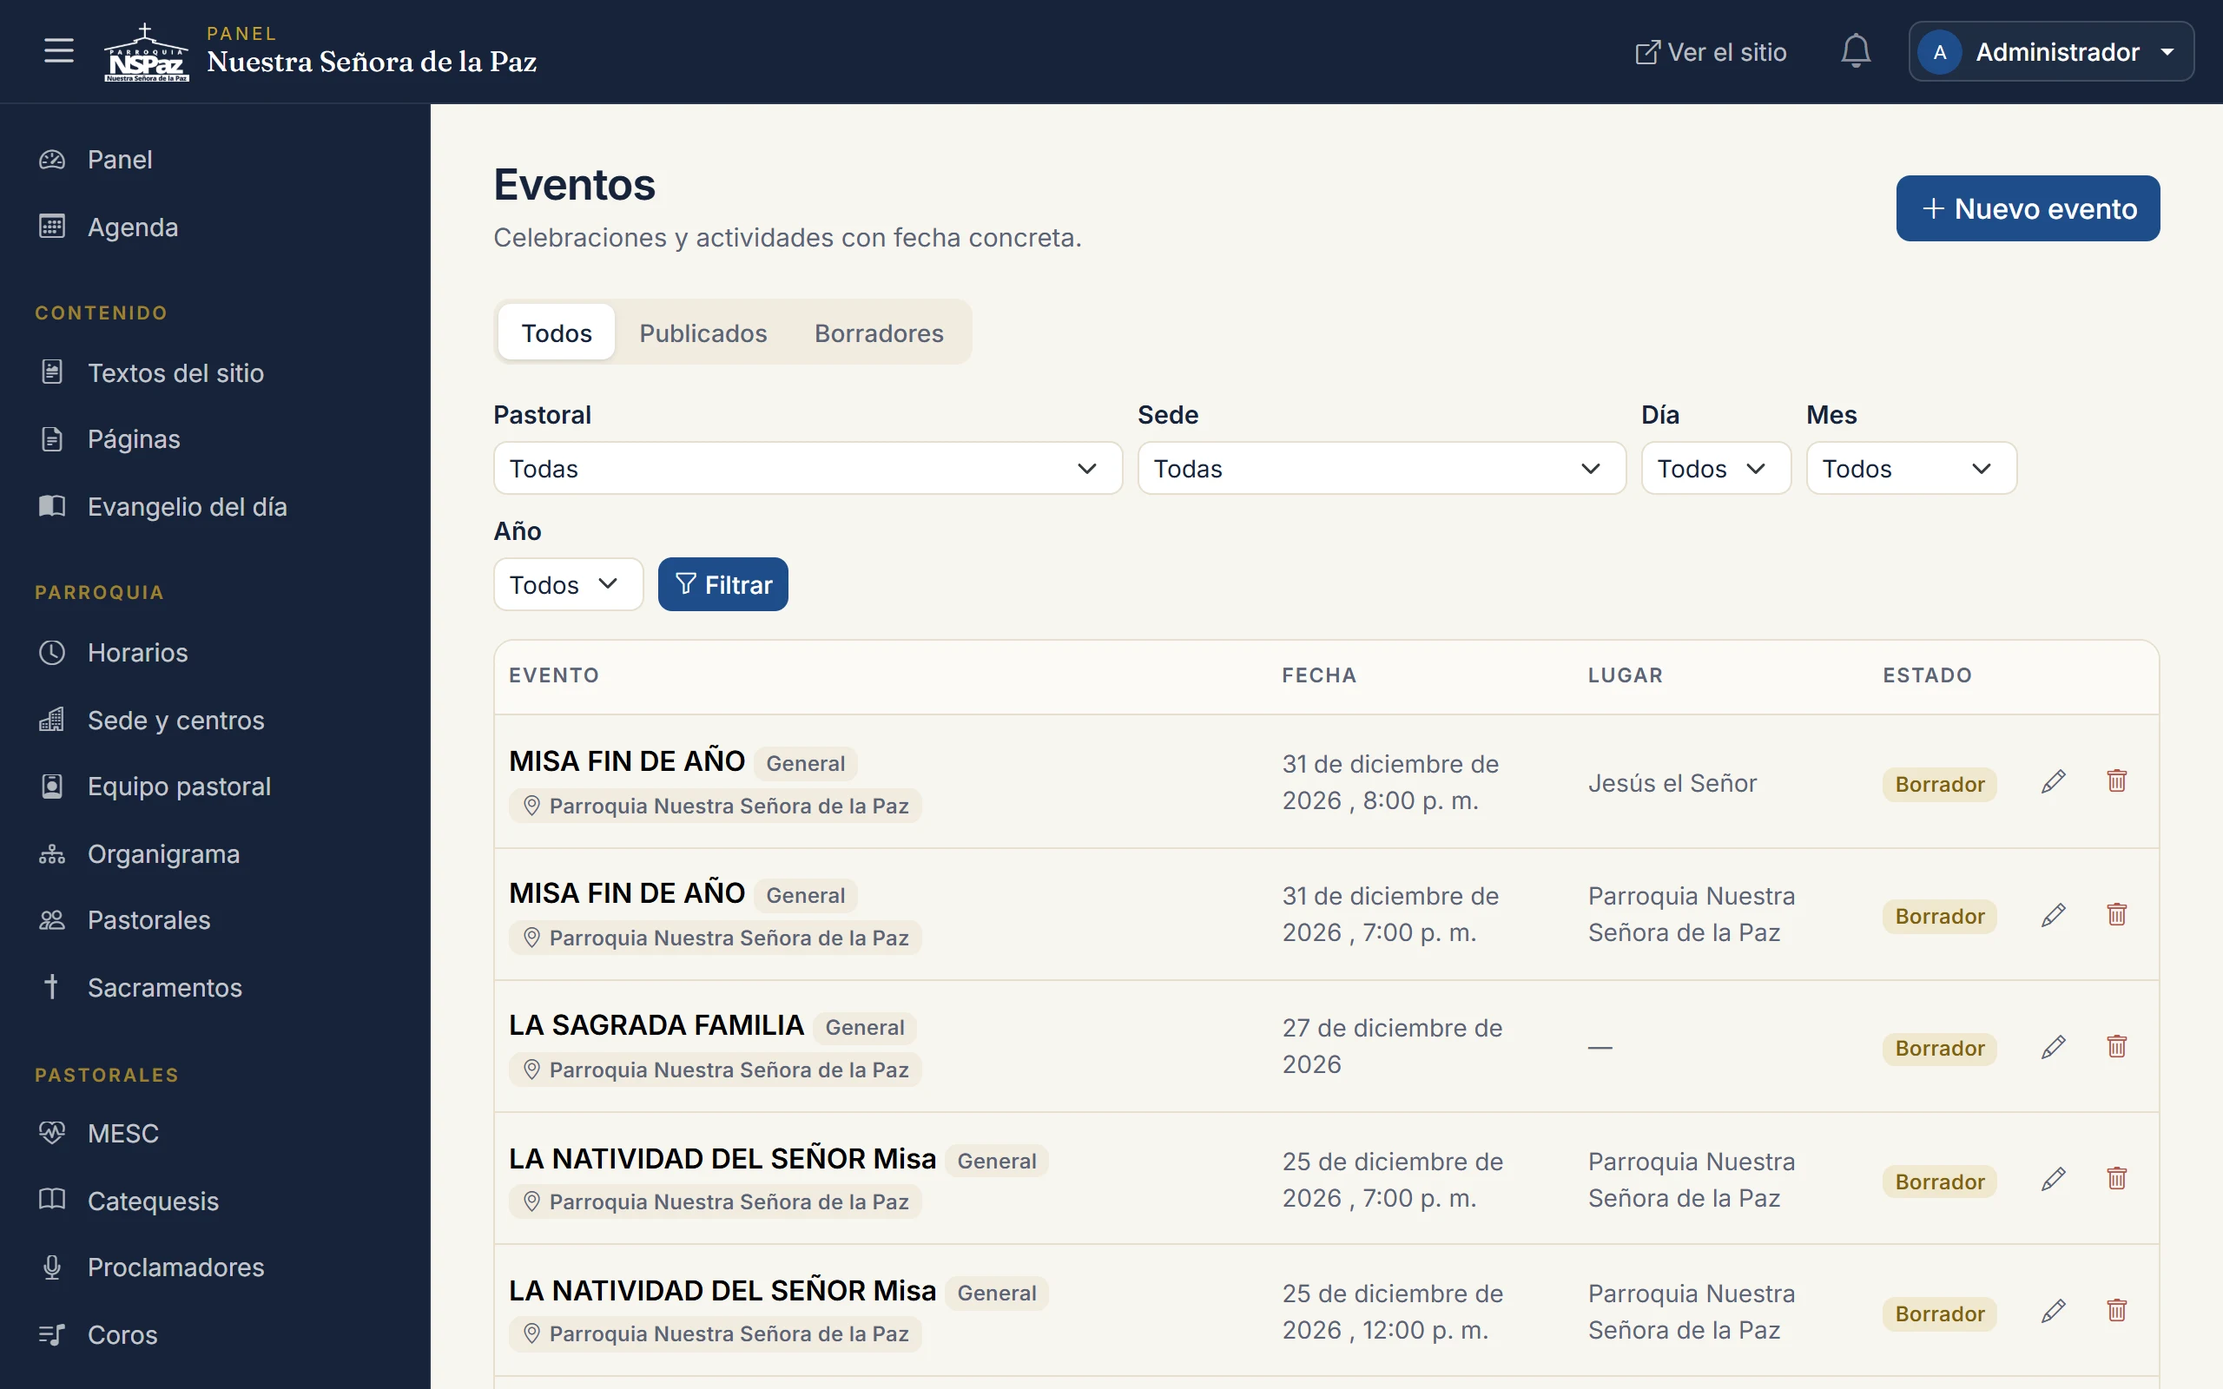
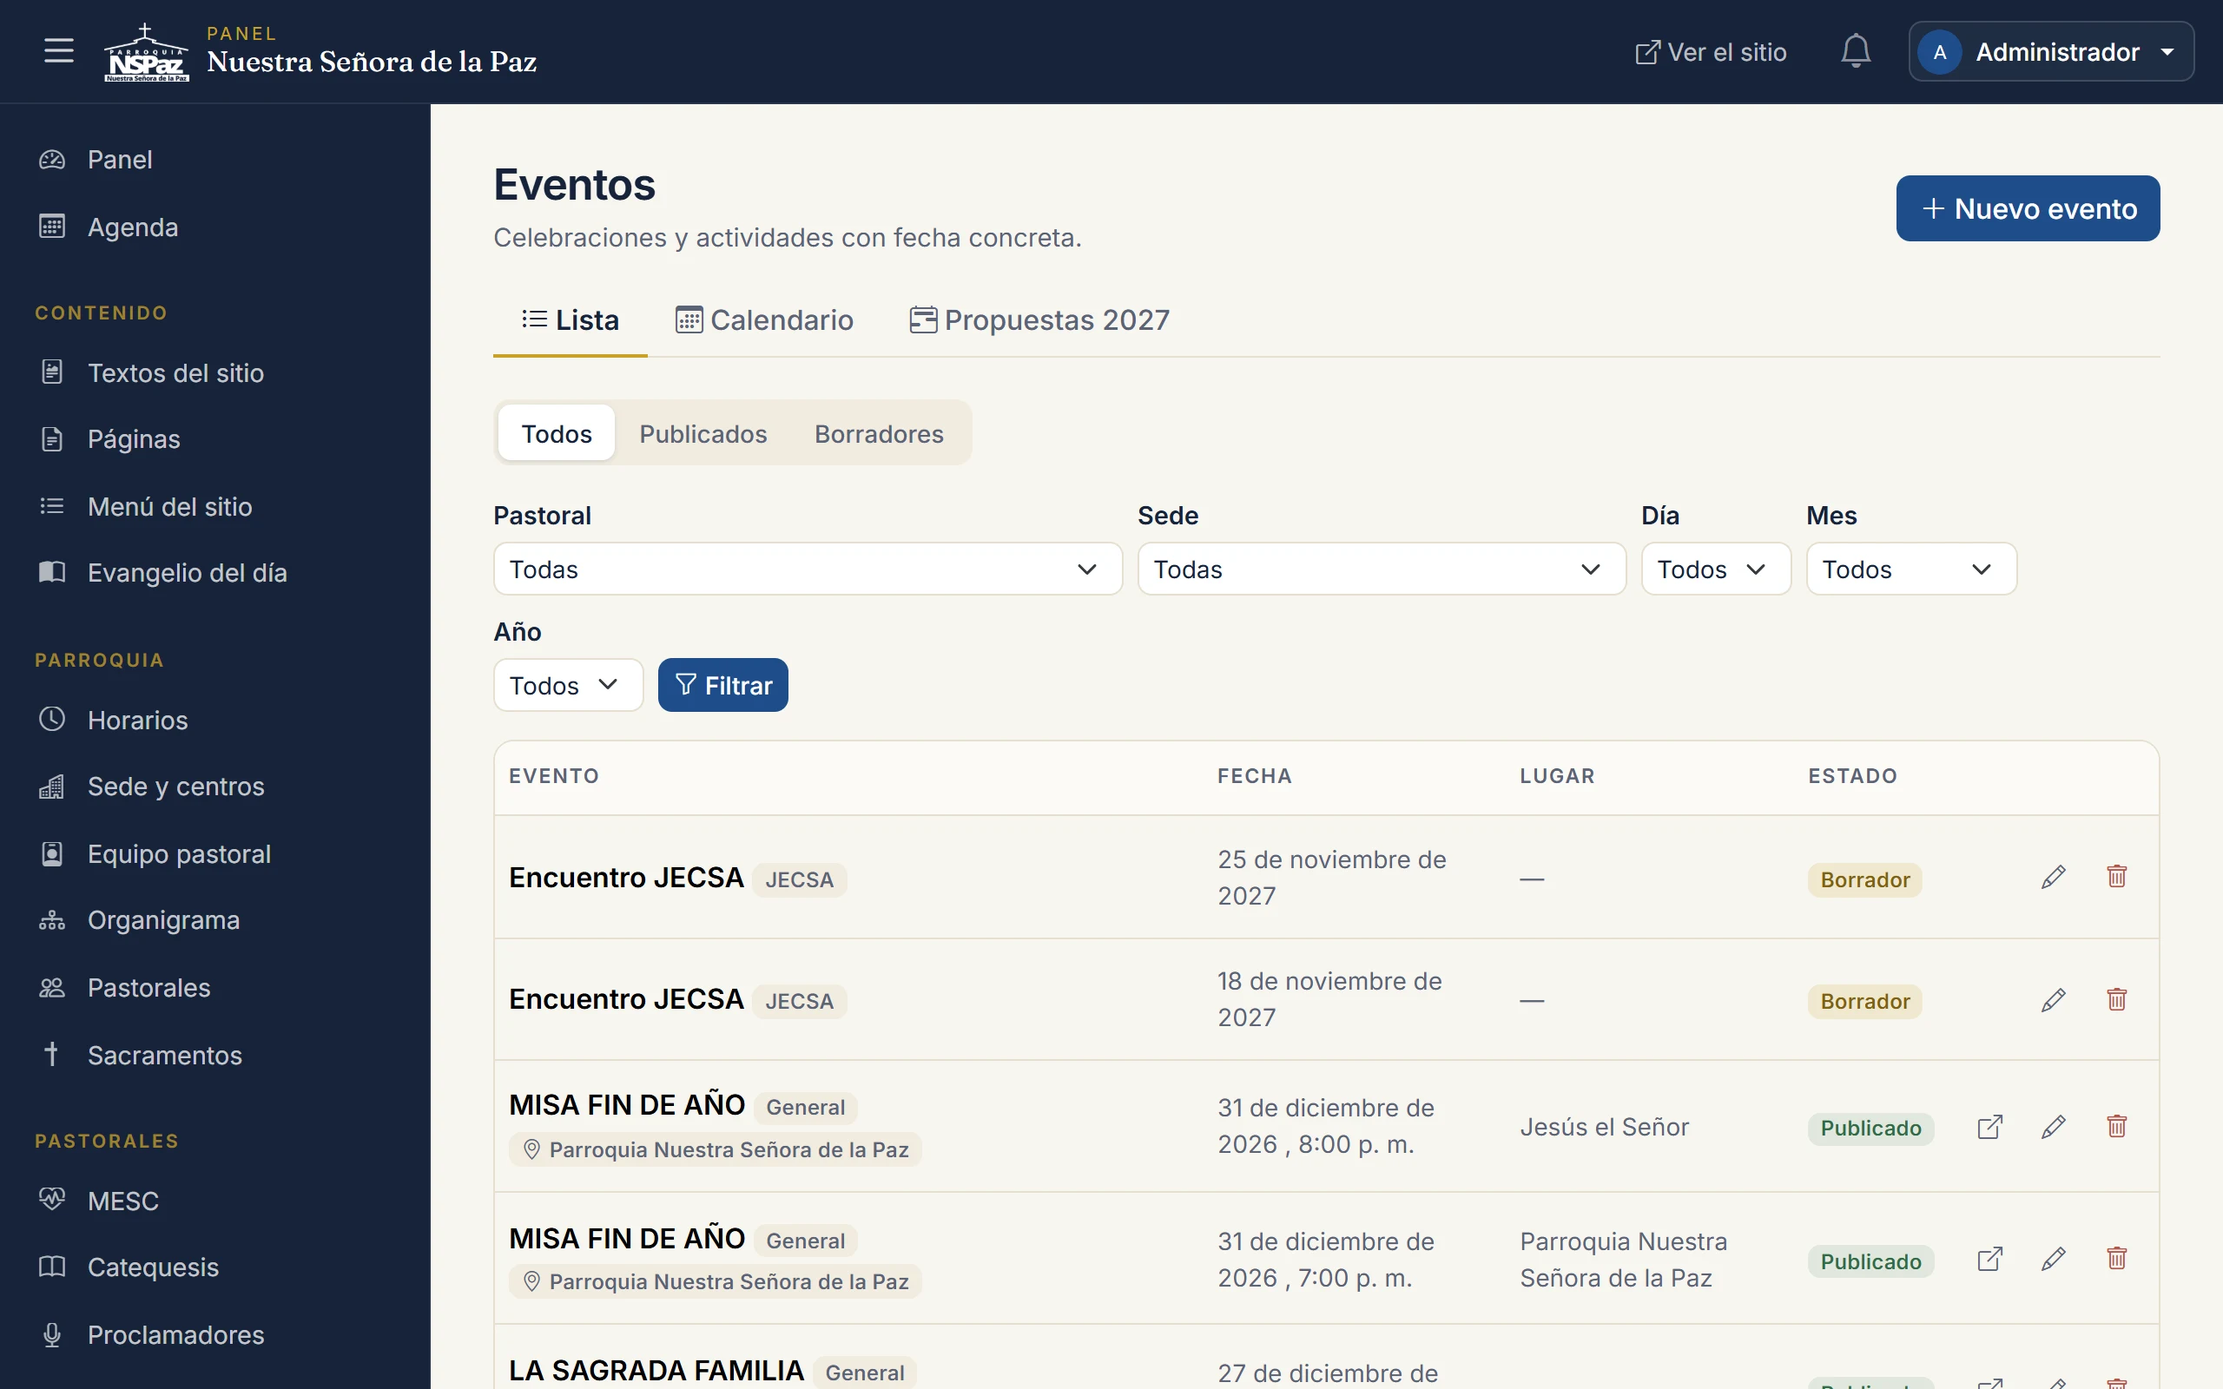
Documentación y manual: calendario y propuestas de Eventos
- Manual cap. 6: las tres pestañas, el calendario con borradores y la
  tabla de propuestas; cap. 8 remite a ellas. Tres capturas nuevas.
- Video 06: cinco escenas nuevas y focos del listado ajustados.
- ARQUITECTURA, ESTADO, PLAN y README.

Claude-Session: https://claude.ai/code/session_01CqGMDLPj8tb6hvATTcVT2Y

diff --git a/herramientas/capturas_manual_pantallas.js b/herramientas/capturas_manual_pantallas.js
@@ -484,6 +484,45 @@ module.exports = [
         espera: 'table',
     },
     {
+        id: 'eventos-calendario',
+        titulo: 'Los eventos en calendario',
+        url: '/admin/eventos/calendario',
+        espera: '.calendario-tabla',
+    },
+    {
+        // Sin ?anio=: así siempre enseña el año que viene, que es para lo que
+        // existe esta pantalla.
+        id: 'eventos-propuestas',
+        titulo: 'Las propuestas de las pastorales para el año que viene',
+        url: '/admin/eventos/propuestas',
+        espera: '.propuestas-tabla',
+        antes: async (page) => {
+            await page.$eval('details', (d) => { d.open = true; }).catch(() => {});
+        },
+    },
+    {
+        // La tabla con contenido: 2026 es el año que la parroquia ya tiene
+        // capturado completo. Para el año que viene todavía hay muy poco, y
+        // la tabla saldría casi en blanco.
+        id: 'eventos-propuestas-tabla',
+        titulo: 'La tabla de pastorales por mes',
+        url: '/admin/eventos/propuestas?anio=2026&estado=todos',
+        espera: '.propuestas-tabla',
+        antes: async (page) => {
+            // Lo general de la parroquia ocupa sola la primera pantalla: se
+            // ocultan las filas vacías y se baja hasta la primera Comisión,
+            // que es donde se ve la idea de la tabla.
+            await page.$eval('.propuestas-tabla', (t) => {
+                const casilla = document.getElementById('soloConFechas');
+                if (casilla && !casilla.checked) { casilla.click(); }
+                t.closest('.card').scrollIntoView();
+                const marco = t.closest('.table-responsive');
+                const fila  = [...t.tBodies[0].rows].slice(1).find((r) => r.offsetParent !== null);
+                if (marco && fila) { marco.scrollTop = fila.offsetTop - t.tHead.offsetHeight; }
+            });
+        },
+    },
+    {
         id: 'eventos-form',
         titulo: 'El formulario de un evento',
         url: '/admin/eventos/nuevo',

diff --git a/docs/manual/06-eventos.md b/docs/manual/06-eventos.md
@@ -6,6 +6,10 @@ publicados o no, a la agenda interna del equipo.
 
 **Menú:** Comunicación → Eventos.
 
+Arriba hay tres pestañas, que son tres maneras de ver los mismos eventos:
+**Lista**, **Calendario** y **Propuestas** del año que viene. Las dos últimas
+se explican más abajo.
+
 ## El listado
 
 ![El listado de eventos](img/eventos-lista.webp)
@@ -22,6 +26,77 @@ Cada renglón dice el título —con la pastoral y la sede en dos etiquetas
 debajo—, la fecha con su hora, el lugar y el estado. A la derecha, el lápiz
 para editar y el bote para borrar. Con el botón azul **Nuevo evento** se crea
 uno.
+
+## El calendario
+
+![Los eventos en calendario](img/eventos-calendario.webp)
+
+La pestaña **Calendario** enseña los eventos **igual que el calendario del
+sitio** —con sus vistas de *Día*, *Semana*, *Mes* y *Año*, y las flechas para
+ir al periodo anterior o al siguiente—, pero con una diferencia que es la razón
+de que exista: **aquí también salen los borradores**. Se distinguen por el
+**borde punteado**; lo publicado va lleno.
+
+Encima están los filtros:
+
+- **Todos / Publicados / Borradores.** Con *Borradores* queda solo lo que
+  todavía no se anuncia: lo que las pastorales tienen propuesto.
+- **Pastoral** y **Sede**, para quedarse con lo de una comunidad.
+
+Al pasar el ratón por una casilla se ve de qué pastoral es, y con un clic se
+abre su formulario. **Solo es enlace lo que puedes editar**: lo de las demás
+pastorales se ve, pero no lleva a ninguna parte. Es la misma regla de la
+agenda interna (capítulo 8): aquí se mira todo, y se toca lo tuyo.
+
+> La diferencia con la **Agenda** es que aquí solo hay eventos —la agenda
+> junta también los cursos— y que el filtro de borradores es de verdad: la
+> agenda los atenúa, este calendario puede quedarse solo con ellos.
+
+## Las propuestas del año que viene
+
+![Las propuestas de las pastorales para el año que viene](img/eventos-propuestas.webp)
+
+Cada pastoral captura sus fechas del año siguiente **como borrador**, con
+**Publicado** apagado. La pestaña **Propuestas** las junta todas en una sola
+pantalla para revisarlas antes de publicarlas.
+
+**Arriba, tres números:** cuántas fechas hay propuestas, cuántas pastorales ya
+propusieron algo y **cuántas no tienen ninguna fecha todavía**; con **Ver
+cuáles** sale la lista, que es la de a quién hay que recordarle. Las Comisiones
+no cuentan en esa lista, porque casi nunca programan a su nombre: lo hacen sus
+dimensiones.
+
+**Los filtros:**
+
+- **Año.** Por omisión, el que viene. Se puede ver también el actual, el
+  anterior o los siguientes.
+- **Mostrar.** Por omisión *Solo borradores*, que son las propuestas. Con
+  *Borradores y publicados* se ve el año completo, y con *Solo publicados*,
+  lo que ya se anunció.
+- **Sede**, si la parroquia tiene más de una.
+- **Imprimir**, para llevar la tabla a la reunión de planeación.
+
+![La tabla de pastorales por mes](img/eventos-propuestas-tabla.webp)
+
+**La tabla** tiene una fila por pastoral, agrupadas bajo su Comisión como en el
+sitio, y una columna por mes. En cada casilla van las fechas de esa pastoral
+ese mes: el número es el día, y luego el título. **«12–14»** es un evento que
+dura del 12 al 14; **«28+»**, uno que sigue en el mes siguiente. Los borradores
+van con borde punteado, igual que en el calendario. Al pasar el ratón se ve el
+detalle —fecha completa, hora, lugar y sede—, y con un clic se abre para
+editarlo o publicarlo. La primera fila, **General de la parroquia**, es lo que
+no tiene pastoral.
+
+El interruptor **Ocultar las pastorales sin fechas** deja solo las filas con
+algo; la Comisión se queda como encabezado si alguna de sus dimensiones tiene
+fechas. El navegador recuerda cómo lo dejaste.
+
+> **Quién ve qué.** El administrador y el editor ven todas las pastorales y la
+> lista de las que faltan. Una coordinación ve la misma tabla, pero solo con
+> sus pastorales y sin esa lista: le sirve para revisar su propio año.
+
+Para **publicar** una fecha ya aprobada no hace falta salir de aquí: se le da
+clic, se enciende **Publicado** y se guarda.
 
 ## El formulario
 
@@ -62,7 +137,8 @@ uno.
 
 Los eventos **no tienen los tres escalones de los avisos**: llevan un solo
 interruptor, **Publicado**, con dos posiciones. Apagado es borrador —lo ve el
-equipo en la agenda interna, nadie más—; encendido sale en el calendario del
+equipo en la agenda interna y en el calendario y las propuestas de Eventos,
+nadie más—; encendido sale en el calendario del
 sitio. **En un evento nuevo viene encendido**: si todavía no quieres que se vea,
 apágalo antes de guardar.
 

diff --git a/docs/ARQUITECTURA.md b/docs/ARQUITECTURA.md
@@ -576,6 +576,46 @@ consultan contenido, **incluidos los seis de Consulta**: para un ministro, cateq
 proclamador es la única pantalla que verán además de la de su pastoral, y es la que responde
 "¿qué hay programado esta semana?" sin darles con qué editar nada.
 
+### Eventos en calendario y las propuestas del año siguiente
+
+La parroquia pidió, dentro de Eventos, verlos en calendario «como en la página» y, sobre
+todo, **revisar las fechas que cada pastoral propone para el año siguiente**. Las propuestas
+no son un estado nuevo: una pastoral propone capturando el evento con `publicado = 0`, que
+es lo que ya hacía. No se añadió columna ni flujo de aprobación —aprobar es encender
+**Publicado**, como siempre—, así que no hay migración.
+
+Eventos pasó a tener tres pestañas (`modules/eventos/views/_pestanas.php`):
+
+- **Lista**, el listado de siempre, que sigue recortando por alcance.
+- **Calendario** (`EventoController::calendario()`). Es la Agenda recortada a eventos, con
+  dos diferencias: el estado es un **filtro de servidor** (`?estado=borradores` deja solo lo
+  propuesto; la Agenda solo atenúa u oculta en pantalla) y no mezcla cursos. Reutiliza
+  `EventoModel::agenda()`, `Calendario` y **las mismas vistas de la Agenda**
+  (`modules/agenda/views/`), que ahora reciben `$calRuta` —[módulo, acción]— para saber a
+  dónde llevan el número del día y el nombre del mes; sin ella siguen apuntando a la Agenda.
+  Como la Agenda, **no recorta por alcance** —mirar todo es lo que evita pisarse el salón— y
+  el enlace a editar solo se dibuja sobre lo propio (`urlDeEdicion()`, la misma regla que
+  `AgendaController`).
+- **Propuestas** (`EventoController::propuestas()`): una tabla de pastorales por meses para
+  un año —por omisión el siguiente— y, por omisión, solo borradores. Las filas salen de
+  `PastoralModel::agrupadoVisible()`, así que van bajo su Comisión igual que en el sitio, y
+  una fila «General de la parroquia» recoge lo que no tiene pastoral. Arriba, cuántas
+  pastorales tienen fechas y **cuáles no tienen ninguna**, que es la lista de a quién hay
+  que recordarle; las Comisiones no cuentan ahí porque casi nunca programan a su nombre.
+
+**Propuestas sí recorta, a diferencia del calendario.** Con alcance global se ven todas las
+pastorales y la lista de las que faltan; una coordinación ve la misma tabla con solo sus
+pastorales (`Auth::pastoralesPermitidas()` → `agenda()` y `agrupadoVisible()`) y sin esa
+lista, que no le toca llevar. Es una pantalla de revisión, no de coordinación: el
+calendario completo ya está en la pestaña de al lado y en la Agenda.
+
+Un evento que empieza en diciembre y acaba en enero aparece en enero del año siguiente: es
+donde cae dentro de ese año. En la casilla, «12–14» dura varios días y «28+» sigue en el
+mes siguiente. Los estilos están en `app.css`, incluida una hoja de impresión acotada con
+`body:has(.propuestas-tabla)` —la hoja la carga todo el panel— que pone la tabla en papel
+horizontal y deja que los títulos se partan, porque en papel no hay ratón para leer el
+título completo.
+
 ### Coordinarse y administrar son dos pantallas, no una
 
 Hasta aquí, el alcance por pastoral servía para dos cosas a la vez: qué se puede escribir y

diff --git a/docs/PLAN.md b/docs/PLAN.md
@@ -188,6 +188,7 @@ pedidos después, cada uno con su origen; todos están implementados y probados 
 | Quién coordina, a la vista, y quién edita la ficha | El nombre de quien lleva cada pastoral se lee en el listado y en el panel —y en el sitio público, bajo cada Comisión y en cada tarjeta— sin abrir la ficha; y esa ficha pasa a editarla solo administración y coordinación general. El panel explica además qué hace cada rol al dar de alta una cuenta | Petición de la parroquia |
 | Avisar por WhatsApp a la pastoral | Un botón junto a cada integrante —tenga ficha en el equipo o esté solo con su nombre y su teléfono a mano— abre la conversación con el mensaje ya escrito; el texto se teclea una vez arriba del listado y lo llevan todos. Son enlaces `wa.me`, no la API de Meta: sin costo, sin trámite y sin llamadas salientes. Requiere el permiso nuevo `personas.contactar` | Petición de la parroquia |
 | Validación de teléfonos al capturar | Los trece campos de teléfono del panel y del sitio exigen diez dígitos —con espacios, guiones o paréntesis, como se quiera— o el número de otro país con `+` y su clave; cualquier letra los invalida, que es lo que atrapaba la extensión pegada al número. Se comprobó que ninguno de los teléfonos ya guardados queda fuera de la regla | Hueco que dejó a la vista el botón de WhatsApp |
+| Calendario de eventos y propuestas del año siguiente | Eventos gana dos pestañas: **Calendario**, con el dibujo del sitio pero con los borradores (borde punteado) y filtros de estado, pastoral y sede; y **Propuestas**, una tabla de pastorales por mes con las fechas que cada una tiene en borrador para el año que viene, las que todavía no proponen nada, y versión para imprimir. Proponer es capturar el evento sin publicarlo, como antes: no hay estado nuevo ni migración | Petición de la parroquia |
 
 El detalle de cada decisión —y de los errores que estos bloques encontraron en el código de
 la fase 1— está en [`ARQUITECTURA.md`](ARQUITECTURA.md).

diff --git a/README.md b/README.md
@@ -33,6 +33,12 @@ ha trabajado un segundo bloque de cambios pedidos por la parroquia:
   parroquia. Los cursos pasaron a administrarse por pastoral, igual que los eventos, y una
   y otros los publica la propia pastoral que los organiza. El calendario del sitio público
   no cambió.
+- **Eventos en calendario y propuestas del año siguiente**: el módulo de Eventos tiene
+  ahora tres pestañas. **Calendario** los enseña como el sitio, pero con los borradores
+  (borde punteado) y un filtro para quedarse solo con ellos. **Propuestas** pone en una
+  tabla de pastorales por mes lo que cada una tiene en borrador para el año que viene, dice
+  cuáles todavía no proponen nada y se imprime para la reunión de planeación. Proponer es
+  capturar el evento sin publicarlo, como antes.
 - **Los roles se simplificaron y las cuentas salen del equipo pastoral**: se retiraron los
   seis roles con la pastoral en el nombre (Administrador MESC, Consulta Catequesis…) y
   quedan Administrador, Editor, Coordinador, Coordinador general, Consulta y Secretaría —el

diff --git a/docs/ESTADO-DEL-PROYECTO.md b/docs/ESTADO-DEL-PROYECTO.md
@@ -85,8 +85,10 @@ pastoral, y un responsable que puede ser una persona o un matrimonio). En los li
 integrantes —los cuatro módulos dedicados y el panel básico— cada quien lleva su botón de
 WhatsApp, y arriba un cuadro para escribir una sola vez el mensaje que todos llevarán.
 
-**Comunicación** — `avisos`, `eventos`, `agenda` (calendario interno, ve borradores de
-toda la parroquia a propósito, para que nadie reserve el salón dos veces).
+**Comunicación** — `avisos`, `eventos` (con tres pestañas: la lista, un calendario como el
+del sitio pero con los borradores, y **Propuestas**, la tabla de pastorales por mes para
+revisar lo que cada una propone para el año siguiente), `agenda` (calendario interno, ve
+borradores de toda la parroquia a propósito, para que nadie reserve el salón dos veces).
 
 **Trámites** — `sacramentos` (informativo), `cursos` e `inscripciones`.
 

diff --git a/docs/manual/08-agenda.md b/docs/manual/08-agenda.md
@@ -69,3 +69,12 @@ Debajo del calendario aparece a veces una nota con los **cursos sin fecha de
 inicio**. Un curso sin fecha no cabe en ninguna casilla, y en vez de
 desaparecerlo en silencio, la agenda lo enumera ahí para que alguien le ponga
 fecha.
+
+## Solo los eventos, o el año que viene
+
+Si lo que buscas son **solo los eventos** —sin los cursos— o **solo lo que está
+en borrador**, en Comunicación → Eventos está la pestaña **Calendario**, con el
+mismo dibujo y un filtro para quedarse con los borradores. Y para revisar **lo
+que cada pastoral propone para el año siguiente**, la pestaña **Propuestas**
+lo pone en una tabla de pastorales por mes. Las dos se explican en el
+capítulo 6.
